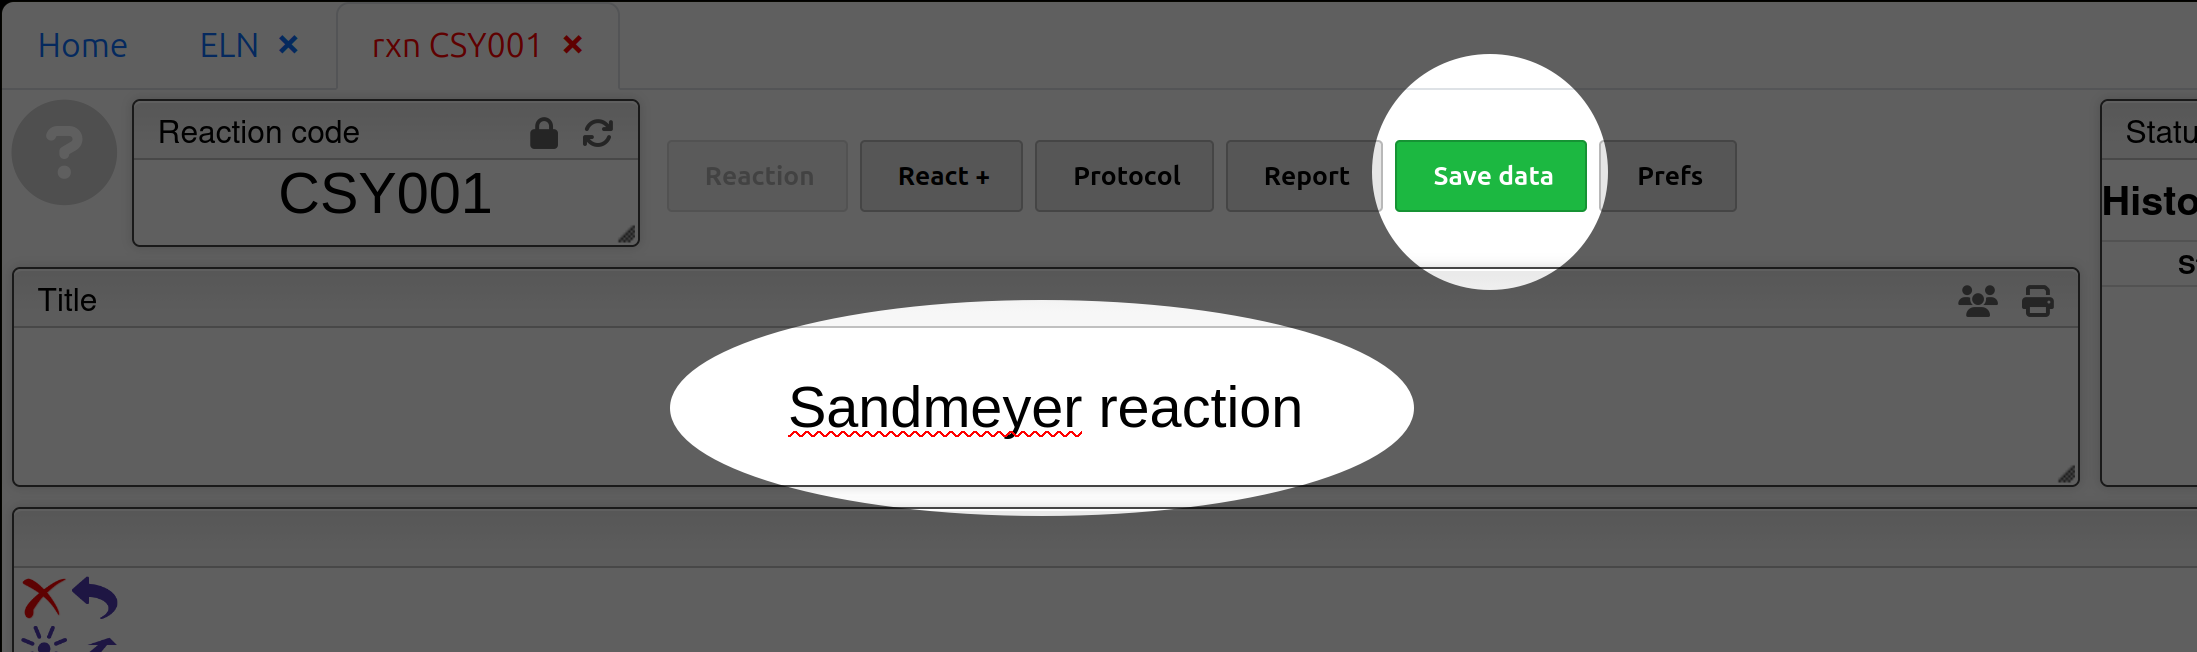
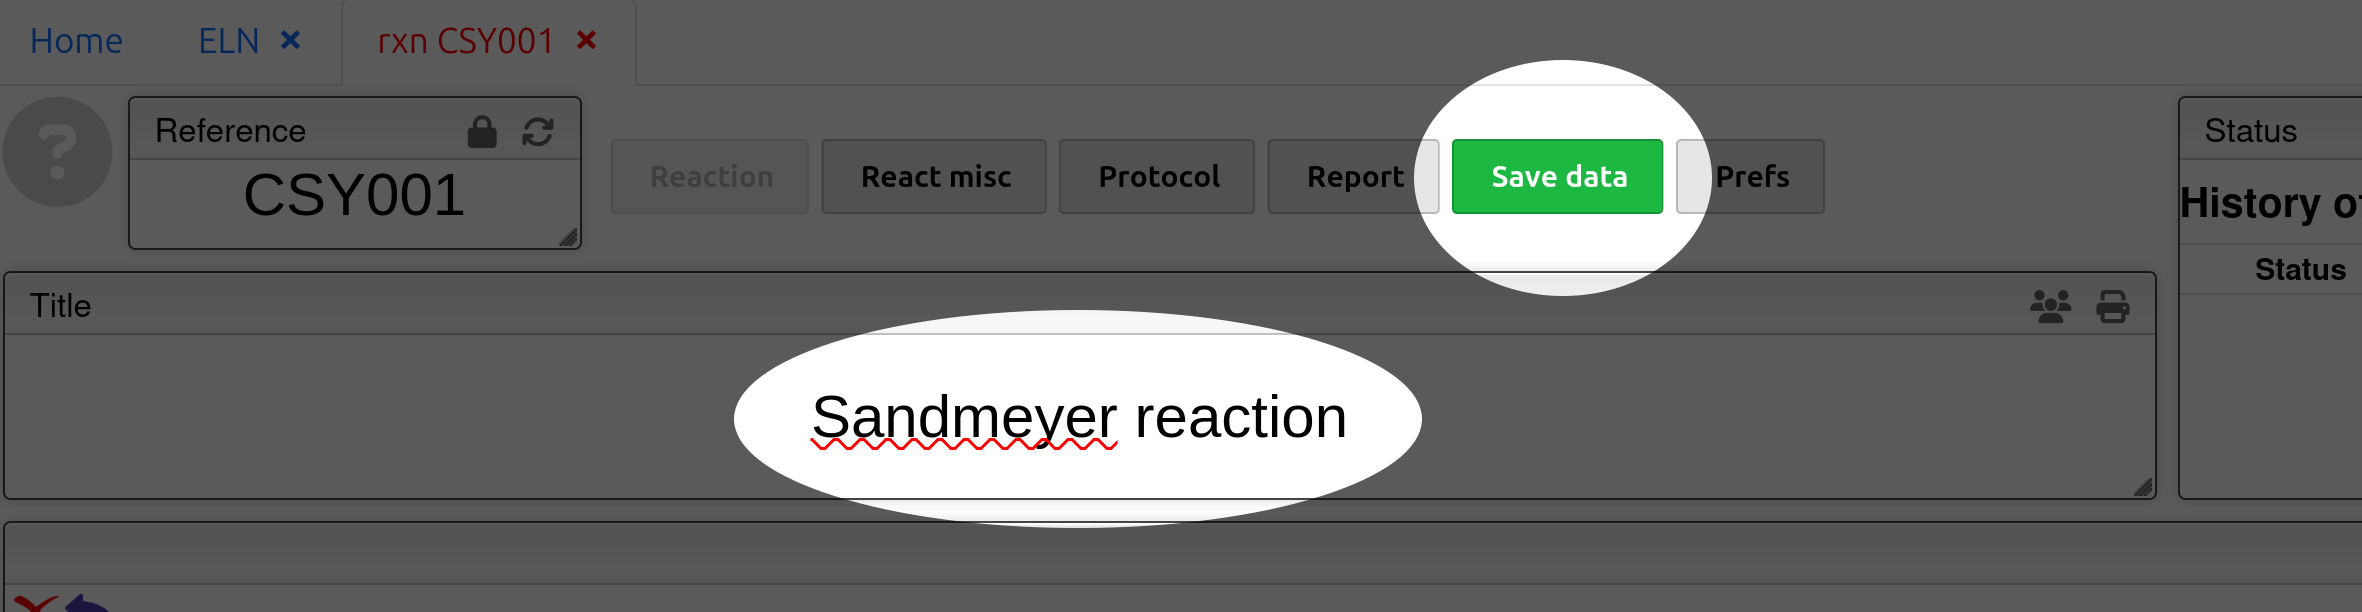
Reword the reaction code note and refresh the title screenshot

diff --git a/docs/new-entry.md b/docs/new-entry.md
@@ -11,9 +11,9 @@ description: Start your entry and prepare for the synthesis.
 
 1. Click <img alt="Electronic Notebook" class="function-icon" src="../assets/new-entry/img_rbf.png"> to open the ELN tab. Click <img alt="Create" class="function-icon" src="../assets/new-entry/img_plus.png">
 2. In "Reaction code" enter your initials and assign a customised number code to it (e.g. Max Mustermann first synthesis ="MM001" ). 
-> The **"Reaction code"** is equivalent to the **"Product code"** of your product/sample and to the **"Reference"** for your measurement request.
+> This **"Reaction code"** also refers to the **"Reference"** shown on the top left corner of the ELN entry AND to the **"Product code"** of your product/sample on the sample page. **Once it is created the entry cannot be deleted, and the reaction code cannot be modified.**
 
-Beware that once entry is created it cannot be deleted and the reaction code cannot be modified. To hide the unwanted entries on the overview of ELN simply click <img alt="The Icon with an eye" class="function-icon" src="../assets/new-entry/img1_Hide-eye.png"> in `Hide` column on the right. 
+To hide the unwanted entries on the overview of ELN simply click <img alt="The Icon with an eye" class="function-icon" src="../assets/new-entry/img1_Hide-eye.png"> in `Hide` column on the right. 
 
 ## 2.  Customize name of entry in 'Title'
 <img alt="screenshot of customized title Sandmeyer Reaktion" src="../assets/new-entry/img_new-entry-title1.png"/>
